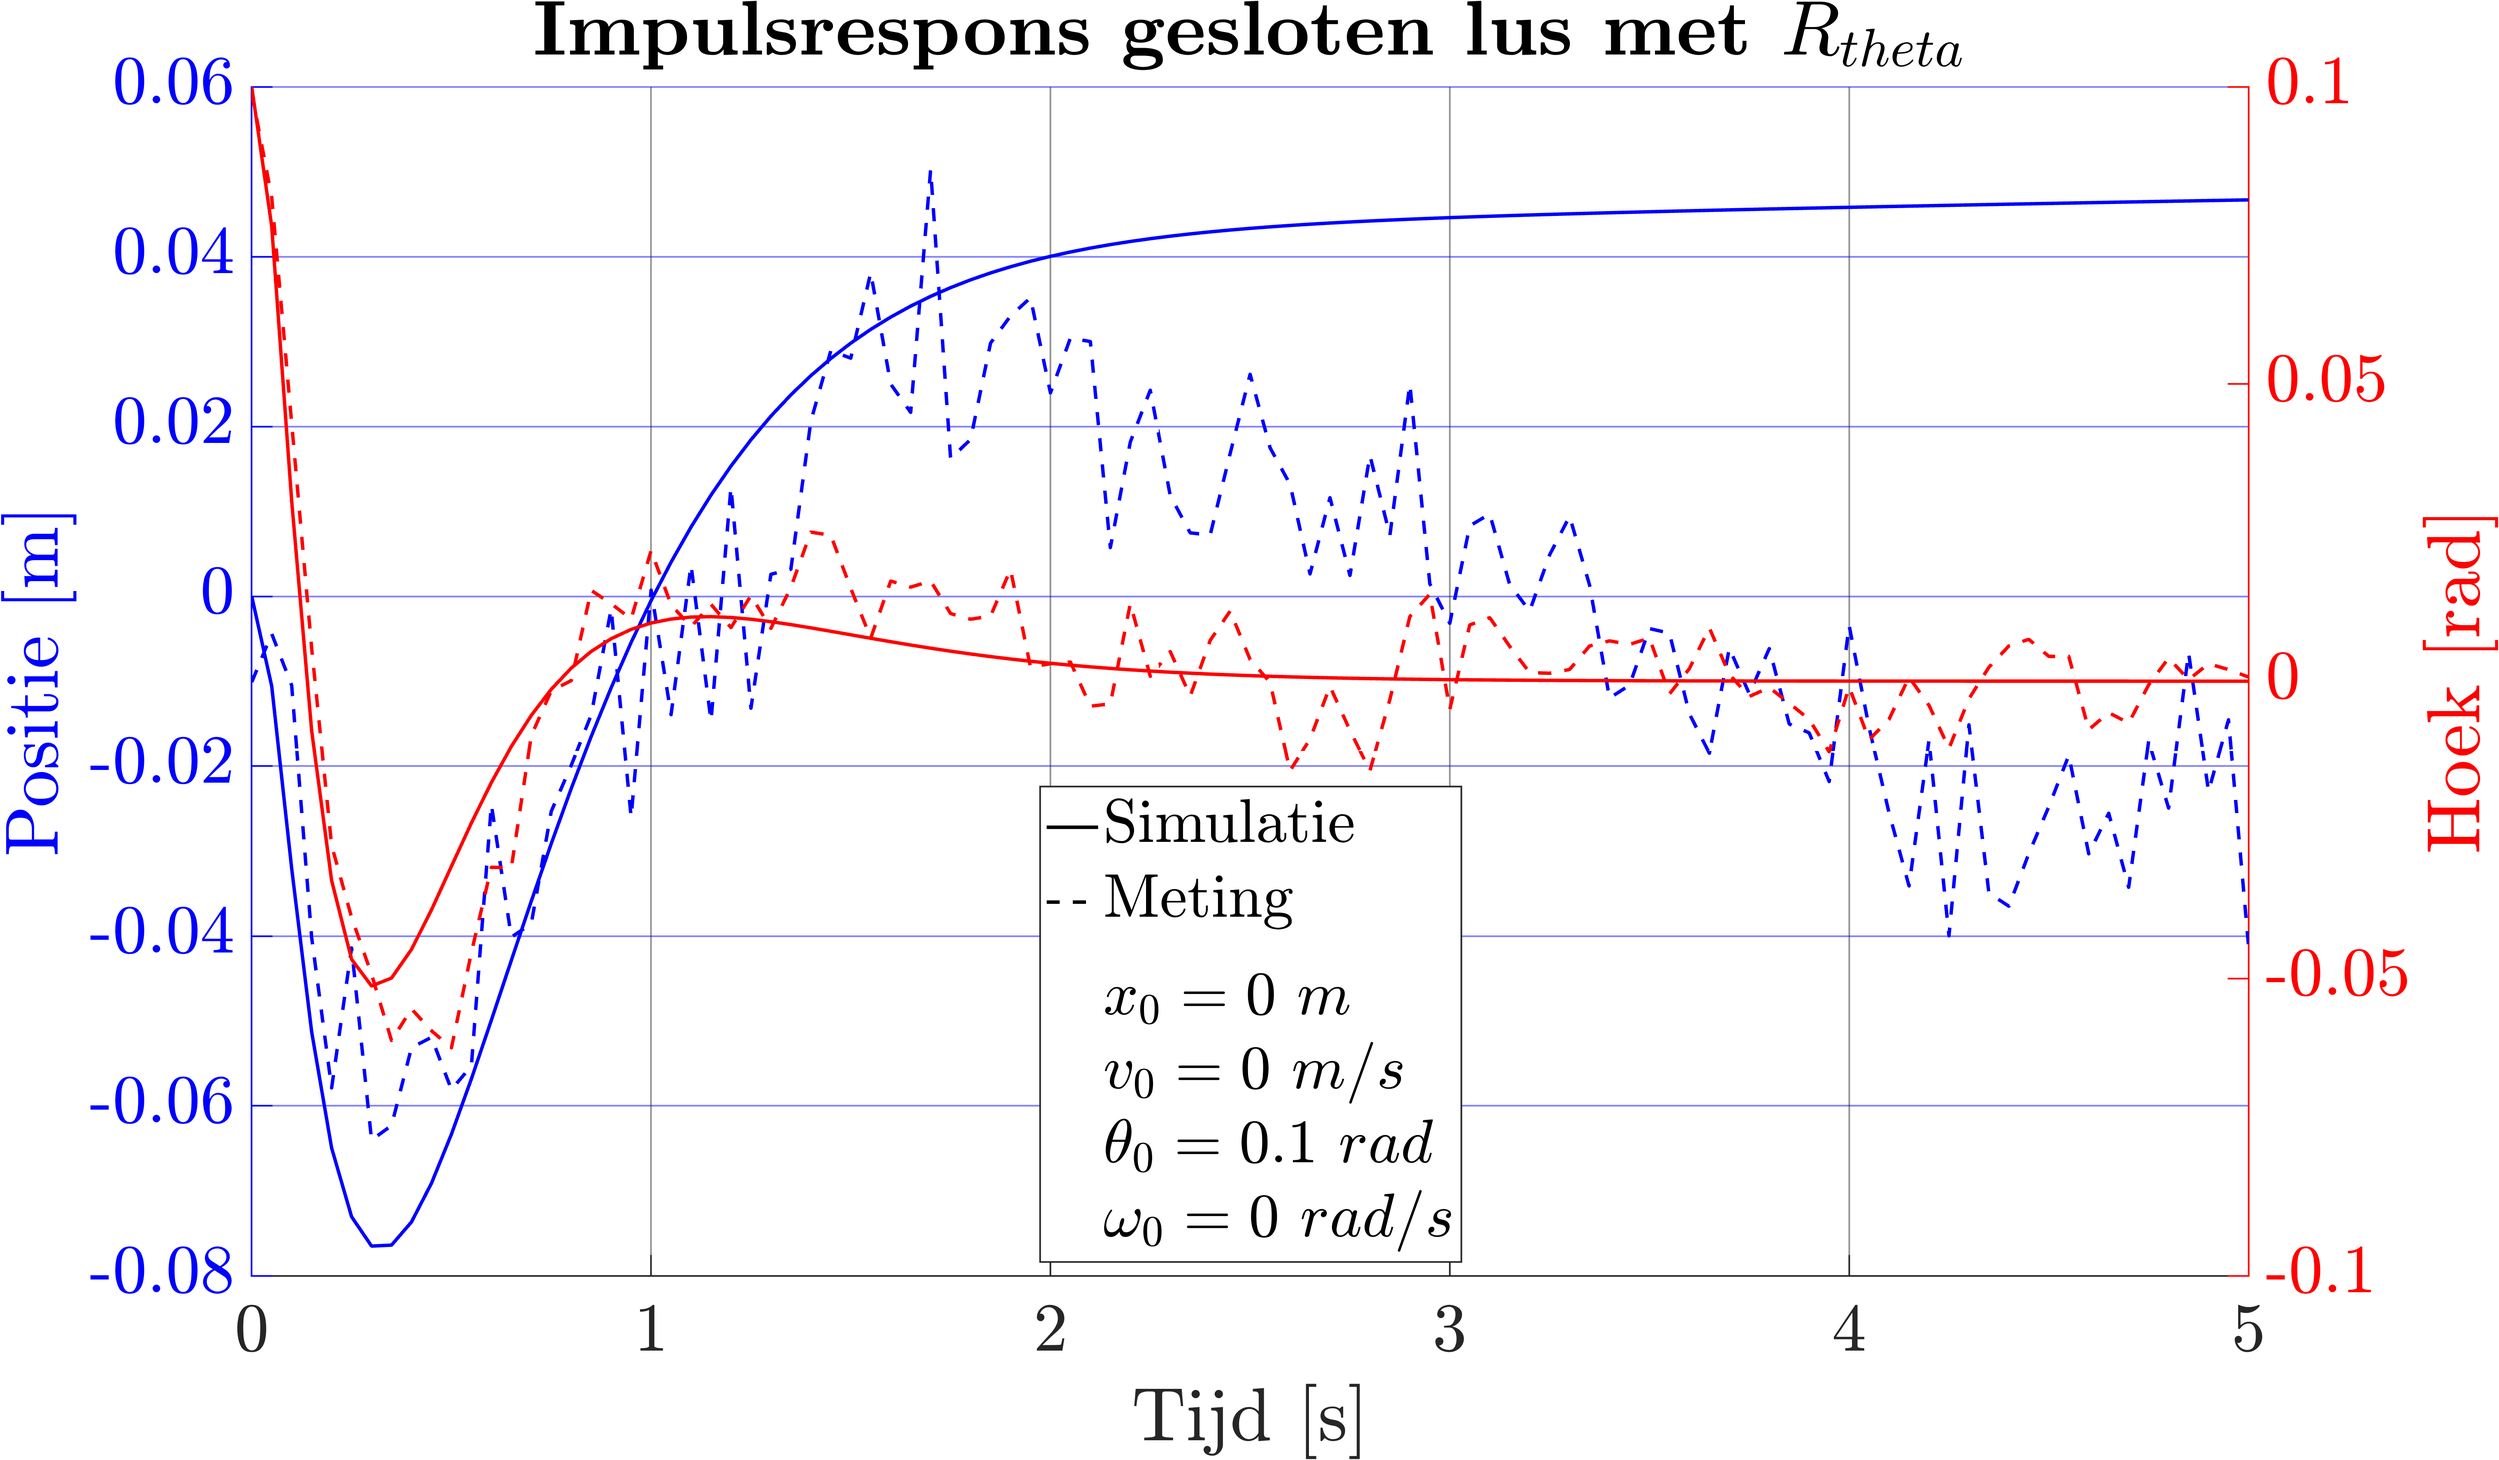
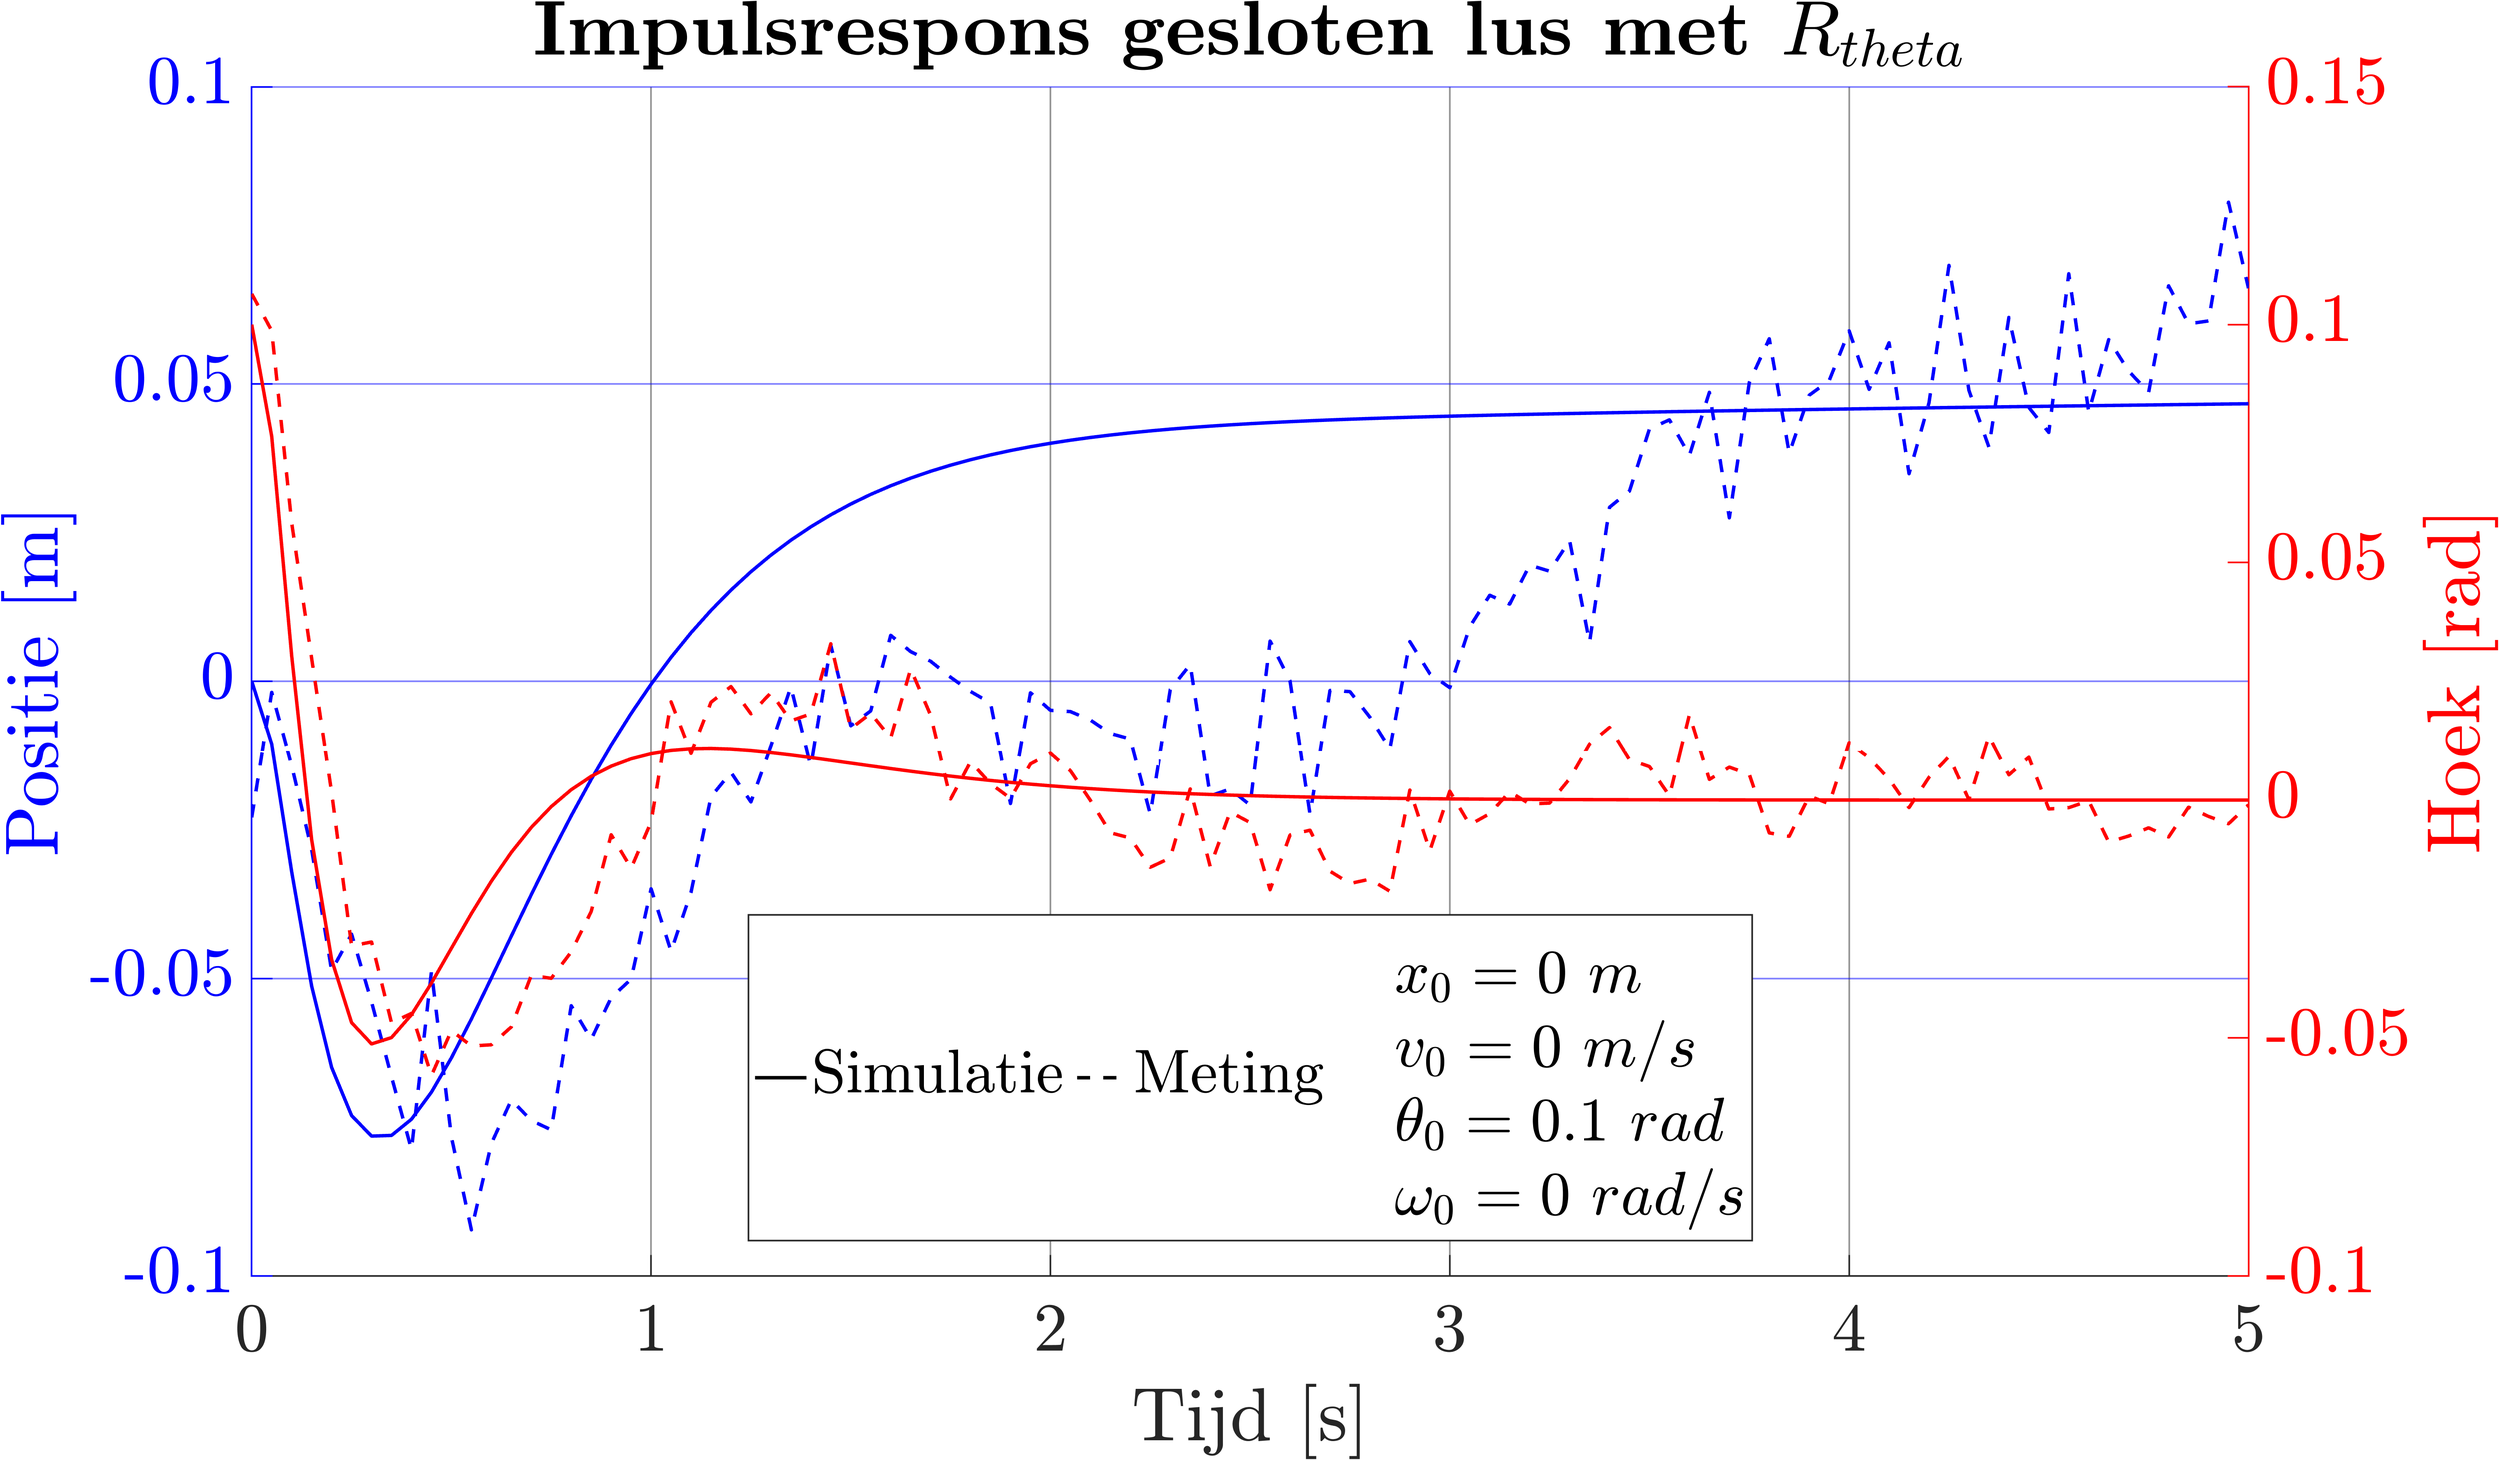
Plots

diff --git a/CleanFile.m b/CleanFile.m
@@ -11,8 +11,7 @@ set(groot,'defaultAxesXGrid','on')
 set(groot,'defaultAxesYGrid','on')
 set(groot,'defaultLineMarkerSize',35)
 set(groot,'defaultAxesFontSize',40)
-set(0,'units','pixels');
-ans = get(0,'ScreenSize');
+get(0,'ScreenSize');
 set(groot,'defaultFigurePosition',[0 0 ans(3) ans(4)])
 set(groot,'defaultLineLineWidth',2)
 set(groot,'defaultLegendLocation','best')
@@ -109,8 +108,8 @@ set(gca,'YTick',-2*pi:pi/2:2*pi)
 set(gca,'YTickLabel',{'$-2\pi$','$-3\pi$/2','$-\pi$','$-\pi$/2','0','$\pi$/2','$\pi$','3$\pi$/2','2$\pi$'})
 xlabel('Tijd [s]')
 title('\textbf{Impulsrespons open lus}','FontSize',45)
-legend('Simulatie','Meting',newline+"$x_0 = 0\ m$"+newline+"$v_0 = 0\ m/s$"+newline+"$\theta_0 = \pi\ rad$"+newline+"$\omega_0 = 0\ rad/s$",'Location','southwest')
-exportgraphics(F,PATH+"/Plots-Video/ResponsOpenLus.png",'Resolution',300)
+legend('Simulatie','Meting',newline+"$x_0 = 0\ m$"+newline+"$v_0 = 0\ m/s$"+newline+"$\theta_0 = 0\ rad$"+newline+"$\omega_0 = 0\ rad/s$",'Location','southwest')
+%exportgraphics(F,PATH+"/Plots-Video/ResponsOpenLus.png",'Resolution',300)
 %% Hoekcontroller
 ps2 = pole(Sdtf(2));
 zs2 = zero(Sdtf(2));
@@ -147,19 +146,20 @@ plot(nan,nan,'w')
 ylabel('Hoek [rad]')
 xlabel('Tijd [s]')
 title('\textbf{Impulsrespons gesloten lus met $R_{theta}$}','FontSize',45)
-legend('Simulatie','Meting',newline+"$x_0 = 0\ m$"+newline+"$v_0 = 0\ m/s$"+newline+"$\theta_0 = 0.1\ rad$"+newline+"$\omega_0 = 0\ rad/s$",'Location','south')
+legend('Simulatie',"Meting",newline+"$x_0 = 0\ m$"+newline+"$v_0 = 0\ m/s$"+newline+"$\theta_0 = 0.1\ rad$"+newline+"$\omega_0 = 0\ rad/s$",'Orientation','horizontal')
 %exportgraphics(F,PATH+"/Plots-Video/ImpulsResponsGeslotenLusR2.png",'Resolution',300)
 %% Positiecontroller
 ps1 = pole(Sdtf(1));
 zs1 = zero(Sdtf(1));
 Rd1 = zpk([ps1(1),1.3,ps1(3)],[0.2,0.75,zs1(3),0.07],2.06,Ts);
-%% Plot Positiecontroller open
+%% Plot Positiecontroller gesloten
 arduino = tcpclient('127.0.0.1', 6012, 'Timeout', 2*10^2);
-n_samples = 7/0.05+1;
+n_samples = 20/0.05+1;
 ts = (0:n_samples-1)*Ts;
 mode = CLASSICAL_COMB;
 [~,G1] = zero(Rd1);
 [~,G2] = zero(Rd2);
+w = 1;
 set_mode_params(arduino, mode, 0, cat(1, G1,cat(1,zero(Rd1),pole(Rd1)),G2, cat(1, zero(Rd2), pole(Rd2))));
 reset_system(arduino);
 Y = get_response(arduino, w, n_samples);
@@ -167,8 +167,8 @@ x = Y(1,:); theta = Y(2,:);
 close_connection(arduino)
 clear arduino
 %%
-t = 0:Ts:7;
-[y] = lsim(minreal(feedback(Rd1*Sd,[1 0])),[zeros(1,length(t))],t,[1 0 0 0 0 0]);
+t = 0:Ts:20;
+[y] = lsim(minreal(feedback(Rd1*Sd,[1 0])),[ones(1,length(t))],t);
 F = figure;
 hold on
 colororder({'b','r'})
@@ -184,30 +184,12 @@ plot(nan,nan,'k--')
 plot(nan,nan,'w')
 set(gca,'YTick',-2*pi:pi/2:2*pi)
 set(gca,'YTickLabel',{'$-2\pi$','$-3\pi$/2','$-\pi$','$-\pi$/2','0','$\pi$/2','$\pi$','3$\pi$/2','2$\pi$'})
+ylim([-3*pi/2 3*pi/2])
 ylabel('Hoek [rad]')
 xlabel('Tijd [s]')
-title('\textbf{Impulsrespons gesloten lus met $R_{theta}$}','FontSize',45)
-legend('Simulatie','Meting',newline+"$x_0 = 0.1\ m$"+newline+"$v_0 = 0\ m/s$"+newline+"$\theta_0 = 0\ rad$"+newline+"$\omega_0 = 0\ rad/s$",'Location','southwest')
-%exportgraphics(F,PATH+"/Plots-Video/ImpulsResponsOpenLusR1.png",'Resolution',300)
-%% Plot Positiecontroller gesloten
-t = 0:Ts:10;
-[y] = lsim(minreal(feedback(Rd1*Sd,[1 0])),[0 1 zeros(1,length(t)-2)],t);
-F = figure;
-hold on
-colororder({'b','r'})
-yyaxis left
-plot(t,y(:,1),'HandleVisibility','off')
-plot(nan,nan,'.')
-ylabel('Positie [m]')
-yyaxis right
-plot(t,y(:,2),'HandleVisibility','off')
-plot(nan,nan,'.')
-plot(nan,nan,'w')
-ylabel('Hoek [rad]')
-xlabel('Tijd [s]')
-title('\textbf{Impuls gesloten lus met $R_{x}$}','FontSize',45)
-legend('Positie x','Hoek $\theta$',newline+"$x_0 = 0\ m$"+newline+"$v_0 = 0\ m/s$"+newline+"$\theta_0 = 0\ rad$"+newline+"$\omega_0 = 0\ rad/s$")
-%exportgraphics(F,PATH+"/Plots-Video/ImpulsResponsGeslotenLusR2.png",'Resolution',300)
+title('\textbf{Impulsrespons gesloten lus met $R_{x}$}','FontSize',45)
+legend('Simulatie','Meting',newline+"$x_0 = 0\ m$"+newline+"$v_0 = 0\ m/s$"+newline+"$\theta_0 = 0\ rad$"+newline+"$\omega_0 = 0\ rad/s$",'Location','south','Orientation','horizontal')
+%exportgraphics(F,PATH+"/Plots-Video/StapresponsGeslotenLusR1.png",'Resolution',300)
 %% State Observer
 ps_d1 = [0,0,0.01,0.01];
 L1 = place(Sd.A', Sd.C', ps_d1);
@@ -215,9 +197,11 @@ L1 = L1';
 ps_d2 = [0.7,0.8,zs1(3),zs1(3)];
 L2 = place(Sd.A', Sd.C', ps_d2);
 L2 = L2';
+observer1 = ss(Sd.A - L1*Sd.C, [Sd.B, L1], eye(4,4), 0, Ts);
+observer2 = ss(Sd.A - L2*Sd.C, [Sd.B, L2], eye(4,4), 0, Ts);
 %% Simulatie State Observer
 arduino = tcpclient('127.0.0.1', 6012, 'Timeout', 2*10^3);
-n_samples = 20;
+n_samples = 30/0.05+1;
 ts = (0:n_samples-1)*Ts;
 mode = OBSERVER_TEST;
 [~,G1] = zero(Rd1);
@@ -228,6 +212,96 @@ reset_system(arduino);
 Y = get_response(arduino, w, n_samples);
 close_connection(arduino)
 clear arduino
+x = Y(1,:); theta = Y(2,:); u = Y(3,:);
+x_hat = Y(4,:); v_hat = Y(5,:); theta_hat = Y(6,:); theta_dot_hat = Y(7,:);
+real_x = Y(8,:); real_v = Y(9,:); real_theta = Y(10,:); real_theta_dot = Y(11,:);
+u = [Y(3,:);x;theta];
+%% Plot State Observer
+[y] = lsim(observer1,u,ts,[0 0 pi 0]);
+F = figure;
+hold on
+colororder({'b','r'})
+yyaxis left
+plot(ts,y(:,1),'b-','HandleVisibility','off')
+plot(ts,x_hat,'b--','HandleVisibility','off')
+plot(ts,real_x,'k:','HandleVisibility','off')
+ylabel('Positie [m]')
+yyaxis right
+plot(ts,y(:,3),'r-','HandleVisibility','off')
+plot(ts,theta_hat,'r--','HandleVisibility','off')
+plot(ts,real_theta,'k:','HandleVisibility','off')
+plot(nan,nan,'k-')
+plot(nan,nan,'k--')
+plot(nan,nan,'k:')
+plot(nan,nan,'w')
+plot(nan,nan,'w')
+set(gca,'YTick',-2*pi:pi:2*pi)
+set(gca,'YTickLabel',{'$-2\pi$','$-\pi$','0','$\pi$','2$\pi$'})
+ylabel('Hoek [rad]')
+xlabel('Tijd [s]')
+title('\textbf{$Observer_{snel}$}','FontSize',45)
+legend('Simulatie','Meting','Werkelijke waarde',newline+"$x_0 = 0\ m$"+newline+"$v_0 = 0\ m/s$"+newline+"$\theta_0 = 0\ rad$"+newline+"$\omega_0 = 0\ rad/s$")
+exportgraphics(F,PATH+"/Plots-Video/ObeserverSnel.png",'Resolution',300)
+%% Simulatie State Observer
+arduino = tcpclient('127.0.0.1', 6012, 'Timeout', 2*10^3);
+n_samples = 30/0.05+1;
+ts = (0:n_samples-1)*Ts;
+mode = OBSERVER_TEST;
+[~,G1] = zero(Rd1);
+[~,G2] = zero(Rd2);
+w = 0;
+set_mode_params(arduino, mode, w, cat(1, G1,cat(1,zero(Rd1),pole(Rd1)),G2, cat(1, zero(Rd2), pole(Rd2)),reshape(L1,[],1),reshape(Sd.A,[],1),reshape(Sd.B,[],1),reshape(Sd.C,[],1),reshape(L2,[],1)));
+reset_system(arduino);
+Y = get_response(arduino, w, n_samples);
+close_connection(arduino)
+clear arduino
+x = Y(1,:); theta = Y(2,:); u = Y(3,:);
+x_hat = Y(4,:); v_hat = Y(5,:); theta_hat = Y(6,:); theta_dot_hat = Y(7,:);
+real_x = Y(8,:); real_v = Y(9,:); real_theta = Y(10,:); real_theta_dot = Y(11,:);
+u = [Y(3,:);x;theta];
+%% Plot State Observer
+[y] = lsim(observer1,u,ts,[0 0 pi 0]);
+F = figure;
+hold on
+colororder({'b','r'})
+yyaxis left
+plot(ts,y(:,1),'b-','HandleVisibility','off')
+plot(ts,x_hat,'b--','HandleVisibility','off')
+plot(ts,real_x,'k:','HandleVisibility','off')
+ylabel('Positie [m]')
+yyaxis right
+plot(ts,y(:,3),'r-','HandleVisibility','off')
+plot(ts,theta_hat,'r--','HandleVisibility','off')
+plot(ts,real_theta,'k:','HandleVisibility','off')
+plot(nan,nan,'k-')
+plot(nan,nan,'k--')
+plot(nan,nan,'k:')
+plot(nan,nan,'w')
+plot(nan,nan,'w')
+set(gca,'YTick',-2*pi:pi:2*pi)
+set(gca,'YTickLabel',{'$-2\pi$','$-\pi$','0','$\pi$','2$\pi$'})
+ylabel('Hoek [rad]')
+xlabel('Tijd [s]')
+title('\textbf{$Observer_{snel}$}','FontSize',45)
+legend('Simulatie','Meting','Werkelijke waarde',newline+"$x_0 = 0\ m$"+newline+"$v_0 = 0\ m/s$"+newline+"$\theta_0 = 0\ rad$"+newline+"$\omega_0 = 0\ rad/s$")
+%exportgraphics(F,PATH+"/Plots-Video/StapresponsGeslotenLusR1.png",'Resolution',300)
+
+
+
+
+
+
+
+
+
+
+
+
+
+
+
+
+
 %% Plots
 x = Y(1,:); theta = Y(2,:); u = Y(3,:);
 x_hat = Y(4,:); v_hat = Y(5,:); theta_hat = Y(6,:); theta_dot_hat = Y(7,:);

diff --git a/controller.py b/controller.py
@@ -290,18 +290,18 @@ class Observer:
 
     def __call__(self, u, y, x_hat):
         "Call observer with this method; Inputs: command u and measurement y"
-        if abs(y[1]) > np.pi/3:  # Wanneer de hypothese van de kleine hoeken niet meer geldt, schakelen we over tot
+        #if abs(y[1]) > np.pi/3:  # Wanneer de hypothese van de kleine hoeken niet meer geldt, schakelen we over tot
             # een snelle observer. Hier hebben we immers minder vertrouwen in het systeem, dat een gelineariseerde
             # versie is van het echte systeem, gebruik makend van de hypothese van de kleine hoeken.
             # Bovendien zal de observer zo de grote sprongen in hoek kunnen volgen die zich voordoen wanner de pendulum
             # zich onderaan bevindt en de hoek van -pi naar pi springt of omgekeerd.
-            x_hat = np.matmul(self.A1 - np.matmul(self.L1,self.C1),x_hat) + np.transpose(self.B1*u) + [[x] for x in np.matmul(self.L1,y)]
-        else:  # Wanneer de hypothese van de kleine hoeken in voldoende mate geldt, schakelen we over tot een tragere
+        x_hat = np.matmul(self.A1 - np.matmul(self.L1,self.C1),x_hat) + np.transpose(self.B1*u) + [[x] for x in np.matmul(self.L1,y)]
+        #else:  # Wanneer de hypothese van de kleine hoeken in voldoende mate geldt, schakelen we over tot een tragere
             # observer. Het gelineariseerd systeem vormt namelijk in deze regio van de hoeken een goede benadering van
             # het werkelijk systeem. De tragere observer zal in dit domein meer vertrouwen steken in ons model en het
             # effect van de ruis minimaliseren. Toch blijven we de traagste pool van de observer sneller kiezen dan de
             # traagste pool van het systeem in closed loop, om een goede waarnemer te verzekeren.
-            x_hat = np.matmul(self.A1 - np.matmul(self.L2,self.C1),x_hat) + np.transpose(self.B1*u) + [[x] for x in np.matmul(self.L2,y)]
+            #x_hat = np.matmul(self.A1 - np.matmul(self.L2,self.C1),x_hat) + np.transpose(self.B1*u) + [[x] for x in np.matmul(self.L2,y)]
         return x_hat
 
 

diff --git a/src/pendulum.py b/src/pendulum.py
@@ -26,7 +26,7 @@ class Pendulum(System):
         self.add_noise = add_noise
     
     def init_state(self):
-        return np.array([1, 0.0, 0.0, 0.0]) # x0, v0, phi0, omega0
+        return np.array([0.0, 0.0, np.pi, 0.0]) # x0, v0, phi0, omega0
     
     def get_measurement(self):
         measurement = [self.state[0], self.state[2]]
